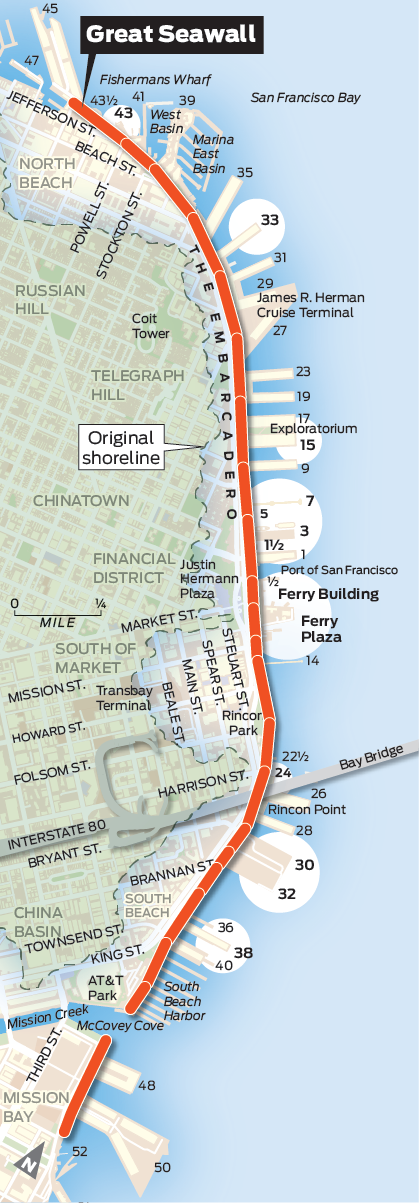
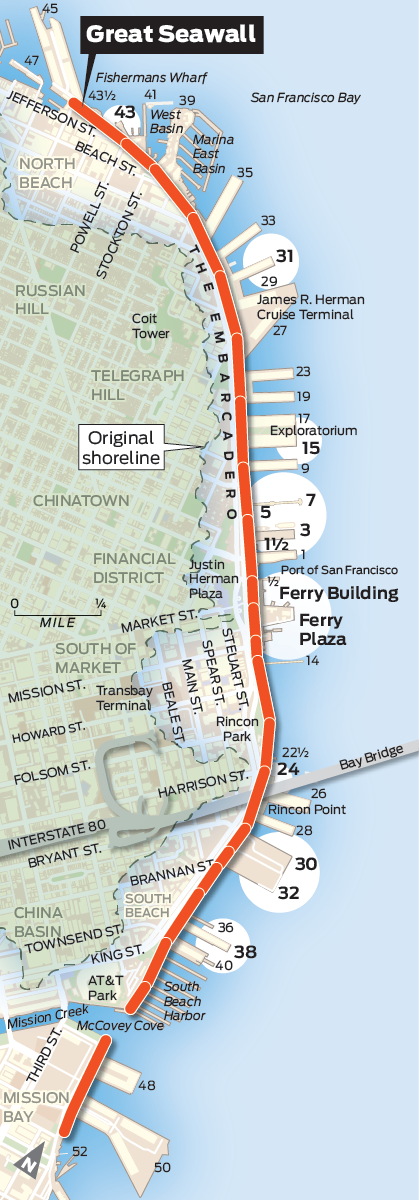
updated svg map

diff --git a/src/_part2.html b/src/_part2.html
@@ -8,7 +8,7 @@
     <div class="byline">By John King</div>
     <div class="byline lower">July 2016</div>
     <div id="social">
-      <a id="twitter-icon" title="Share on Twitter" href="https://twitter.com/intent/tweet?url=http%3A//projects.sfchronicle.com/2016/sea-level-rise&amp;text=Bay Area’s future dependent on managing rising sea levels. %23RisingReality">
+      <a id="twitter-icon" title="Share on Twitter" href="https://twitter.com/intent/tweet?url=http%3A//projects.sfchronicle.com/2016/sea-level-rise/#part2&text=Shoring%20up%20SF%E2%80%99s%20edge%3A%20Bay%20waters%2C%20aged%20seawall%20threaten%20Embarcadero.&hashtags=RisingReality">
         <i class="fa fa-twitter"></i>
       </a>
       <a id="facebook-icon" title="Share on Facebook" href="#" target="_blank" onclick="window.open('https://www.facebook.com/sharer/sharer.php?u=http%3A%2F%2Fprojects.sfchronicle.com%2F2016%2Fsea-level-rise%2F', 'facebook-share-dialog', 'width=626,height=436'); return false;">
@@ -145,28 +145,31 @@
 
     <img src="./assets/graphics/embarcadero/sf_waterfront_mobile_v2.png" id="mobile-map-embarcadero"></img>
 
-    <!-- SVG  -->
+   
+        <!-- SVG  -->
       <?xml version="1.0" encoding="utf-8"?>
       <svg version="1.1" id="Layer_1" xmlns="http://www.w3.org/2000/svg" xmlns:xlink="http://www.w3.org/1999/xlink" x="0px" y="0px"
-         viewBox="0 0 575 1203" xml:space="preserve">
-        <style type="text/css">.st{opacity:0.5;fill:#fff;}</style>
+         viewBox="0 0 419 1203" style="enable-background:new 0 0 419 1203;" xml:space="preserve">
+         <style type="text/css">.st{opacity:0.5;fill:#fff;}</style>
       <g id="Layer_1_1_">
-
-          <image style="overflow:visible;enable-background:new    ;" width="419" height="1203" xlink:href="./assets/graphics/embarcadero/sf_waterfront.png"  transform="matrix(1 0 0 1 -6.800000e-03 -2.000000e-02)">
+        
+          <image style="overflow:visible;enable-background:new;" width="419" height="1203" xlink:href="./assets/graphics/embarcadero/sf_waterfront.png"  transform="matrix(1.0006 0 0 1.0006 -0.2314 5.710000e-02)">
         </image>
       </g>
-      <g id="SEAWALL">
-        <circle class="st st0" cx="120.2" cy="125" r="19.6"/>
-        <circle class="st st1" cx="256.2" cy="226.8" r="27.9"/>
-        <circle class="st st2" cx="298" cy="440.9" r="23.1"/>
-        <circle class="st st3" cx="278.9" cy="521.5" r="42.7"/>
-        <path class="st st4" d="M330.7,615.6c0,24.4-19.8,43.9-43.9,43.9c-24.4,0-43.9-19.8-43.9-43.9
-          c0-24.4,19.8-43.9,43.9-43.9C310.9,571.7,330.7,591.5,330.7,615.6z"/>
-        <circle class="st st5" cx="273.9" cy="780.6" r="18.1"/>
-        <circle class="st st6" cx="278.7" cy="872.4" r="40.2"/>
-        <circle class="st st7" cx="222.2" cy="945.7" r="27.3"/>
+      <g>
+        <circle class="st st0" cx="119.3" cy="122" r="19.6"/>
+        <circle class="st st1" cx="270.4" cy="259.9" r="28"/>
+        <circle class="st st2" cx="297.7" cy="439" r="23.3"/>
+        <circle class="st st3" cx="282.7" cy="515.8" r="42.8"/>
+        <circle class="st st7" cx="221.7" cy="947.9" r="27.4"/>
+        <path class="st st4" d="M330.6,614.6c0,24.4-19.8,44.2-44.2,44.2c-24.4,0-44.2-19.8-44.2-44.2c0-24.4,19.8-44.2,44.2-44.2
+          C310.8,570.4,330.6,590.2,330.6,614.6z"/>
+        <circle class="st st6" cx="278.3" cy="874.2" r="40.4"/>
+        <circle class="st st5" cx="273.5" cy="780" r="18.2"/>        
       </g>
       </svg>
+
+
 
 
   </div>
